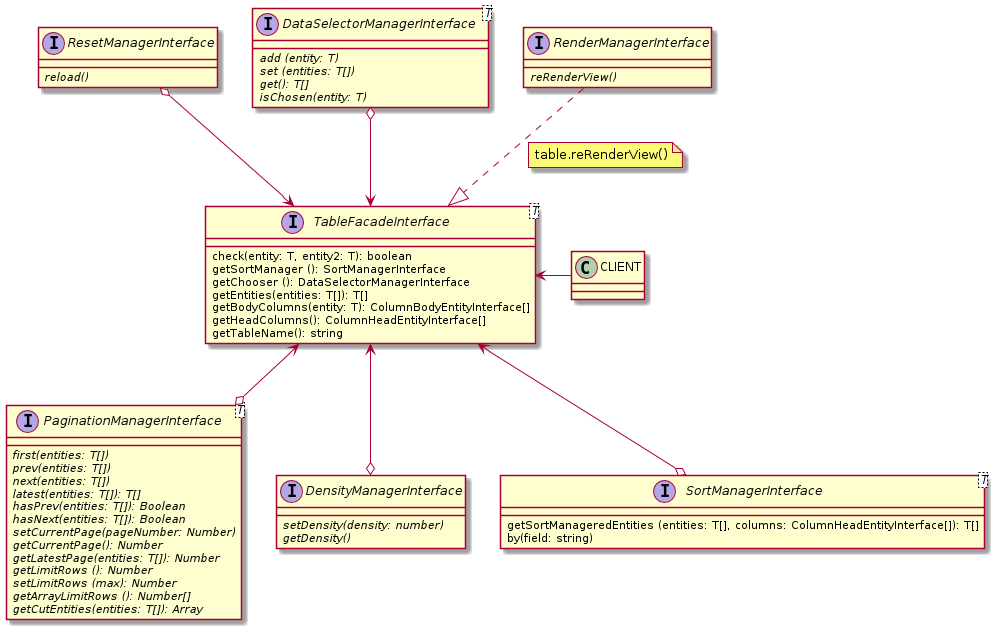
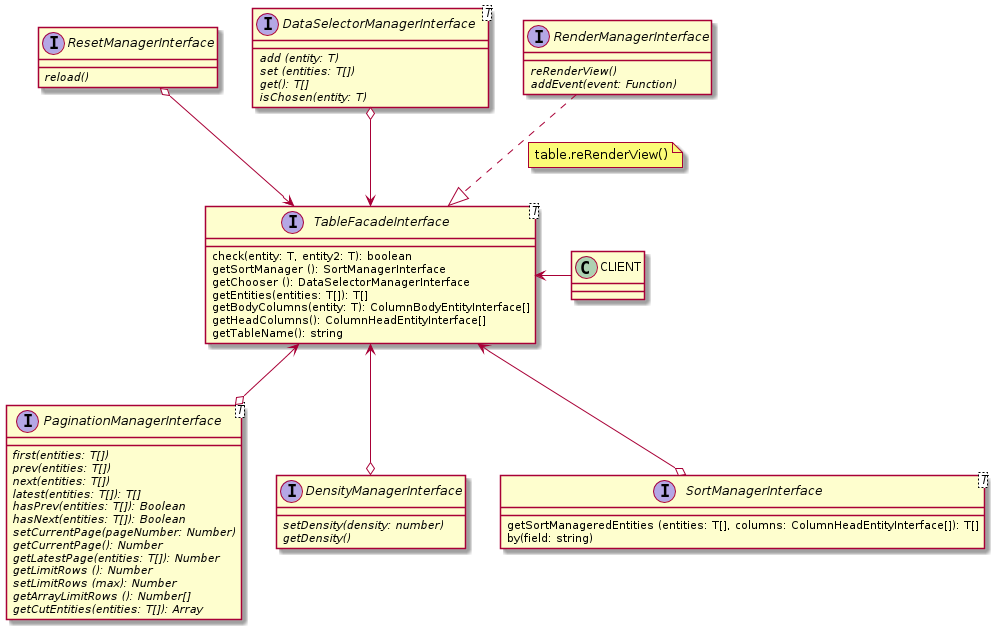
Add method 'AddEvent' in RenderManager

Changed region(s): [[0.5286, 0.0302, 0.7151, 0.1812]]

diff --git a/dist/Models/RenderManager/RenderManager.js b/dist/Models/RenderManager/RenderManager.js
@@ -24,19 +24,35 @@ var RenderManager = function (_RenderManagerInterfa) {
   /**
    * @param onRender {Function}
    */
-  function RenderManager(onRender) {
+  function RenderManager() {
+    var onRender = arguments.length > 0 && arguments[0] !== undefined ? arguments[0] : null;
+
     _classCallCheck(this, RenderManager);
 
+    /**
+     * @type {Function[]}
+     * @private
+     */
     var _this = _possibleConstructorReturn(this, (RenderManager.__proto__ || Object.getPrototypeOf(RenderManager)).call(this));
 
-    _this._onRender = onRender;
+    _this._events = [];
+    if (onRender !== null) {
+      _this.addEvent(onRender);
+    }
     return _this;
   }
 
   _createClass(RenderManager, [{
     key: 'reRenderView',
     value: function reRenderView() {
-      this._onRender();
+      this._events.map(function (event) {
+        event();
+      });
+    }
+  }, {
+    key: 'addEvent',
+    value: function addEvent(onRender) {
+      this._events.push(onRender);
     }
   }]);
 

diff --git a/src/Models/RenderManager/RenderManager.js b/src/Models/RenderManager/RenderManager.js
@@ -3,11 +3,23 @@ export default class RenderManager extends RenderManagerInterface {
   /**
    * @param onRender {Function}
    */
-  constructor(onRender) {
+  constructor(onRender = null) {
     super()
-    this._onRender = onRender
+    /**
+     * @type {Function[]}
+     * @private
+     */
+    this._events = []
+    if (onRender !== null) {
+      this.addEvent(onRender)
+    }
   }
   reRenderView() {
-    this._onRender()
+    this._events.map((event) => {
+      event()
+    })
+  }
+  addEvent (onRender) {
+    this._events.push(onRender)
   }
 }

diff --git a/dist/Builders/TableBuilder/TableBuilder.js b/dist/Builders/TableBuilder/TableBuilder.js
@@ -55,7 +55,8 @@ var TableBuilder = function (_TableBuilderAbstract) {
    * @param onRender {Function}
    * @param columnManager {ColumnManagerInterface}
    */
-  function TableBuilder(onRender) {
+  function TableBuilder() {
+    var onRender = arguments.length > 0 && arguments[0] !== undefined ? arguments[0] : null;
     var columnManager = arguments.length > 1 && arguments[1] !== undefined ? arguments[1] : null;
 
     _classCallCheck(this, TableBuilder);

diff --git a/src/Builders/TableBuilder/TableBuilder.js b/src/Builders/TableBuilder/TableBuilder.js
@@ -13,7 +13,7 @@ export default class TableBuilder extends TableBuilderAbstract {
    * @param onRender {Function}
    * @param columnManager {ColumnManagerInterface}
    */
-  constructor(onRender, columnManager = null) {
+  constructor(onRender = null, columnManager = null) {
     super(onRender)
     this.setColumnManager(columnManager)
     this._factory = null

diff --git a/dist/Models/RenderManager/RenderManagerInterface.js b/dist/Models/RenderManager/RenderManagerInterface.js
@@ -16,6 +16,9 @@ var RenderManagerInterface = function () {
   _createClass(RenderManagerInterface, [{
     key: "reRenderView",
     value: function reRenderView() {}
+  }, {
+    key: "addEvent",
+    value: function addEvent(onRender) {}
   }]);
 
   return RenderManagerInterface;

diff --git a/src/Models/RenderManager/RenderManagerInterface.js b/src/Models/RenderManager/RenderManagerInterface.js
@@ -1,3 +1,4 @@
 export default class RenderManagerInterface {
   reRenderView() {}
+  addEvent (onRender) {}
 }

diff --git a/src/Models/RenderManager/readme.md b/src/Models/RenderManager/readme.md
@@ -10,6 +10,7 @@ table.getRenderManager().reRenderView()
 | Name | Params | Return |
 | --- | --- | --- |
 | reRenderView |  |  |
+| addEvent | Function |  |
 
 
 ![UML](./RenderManager.png)
